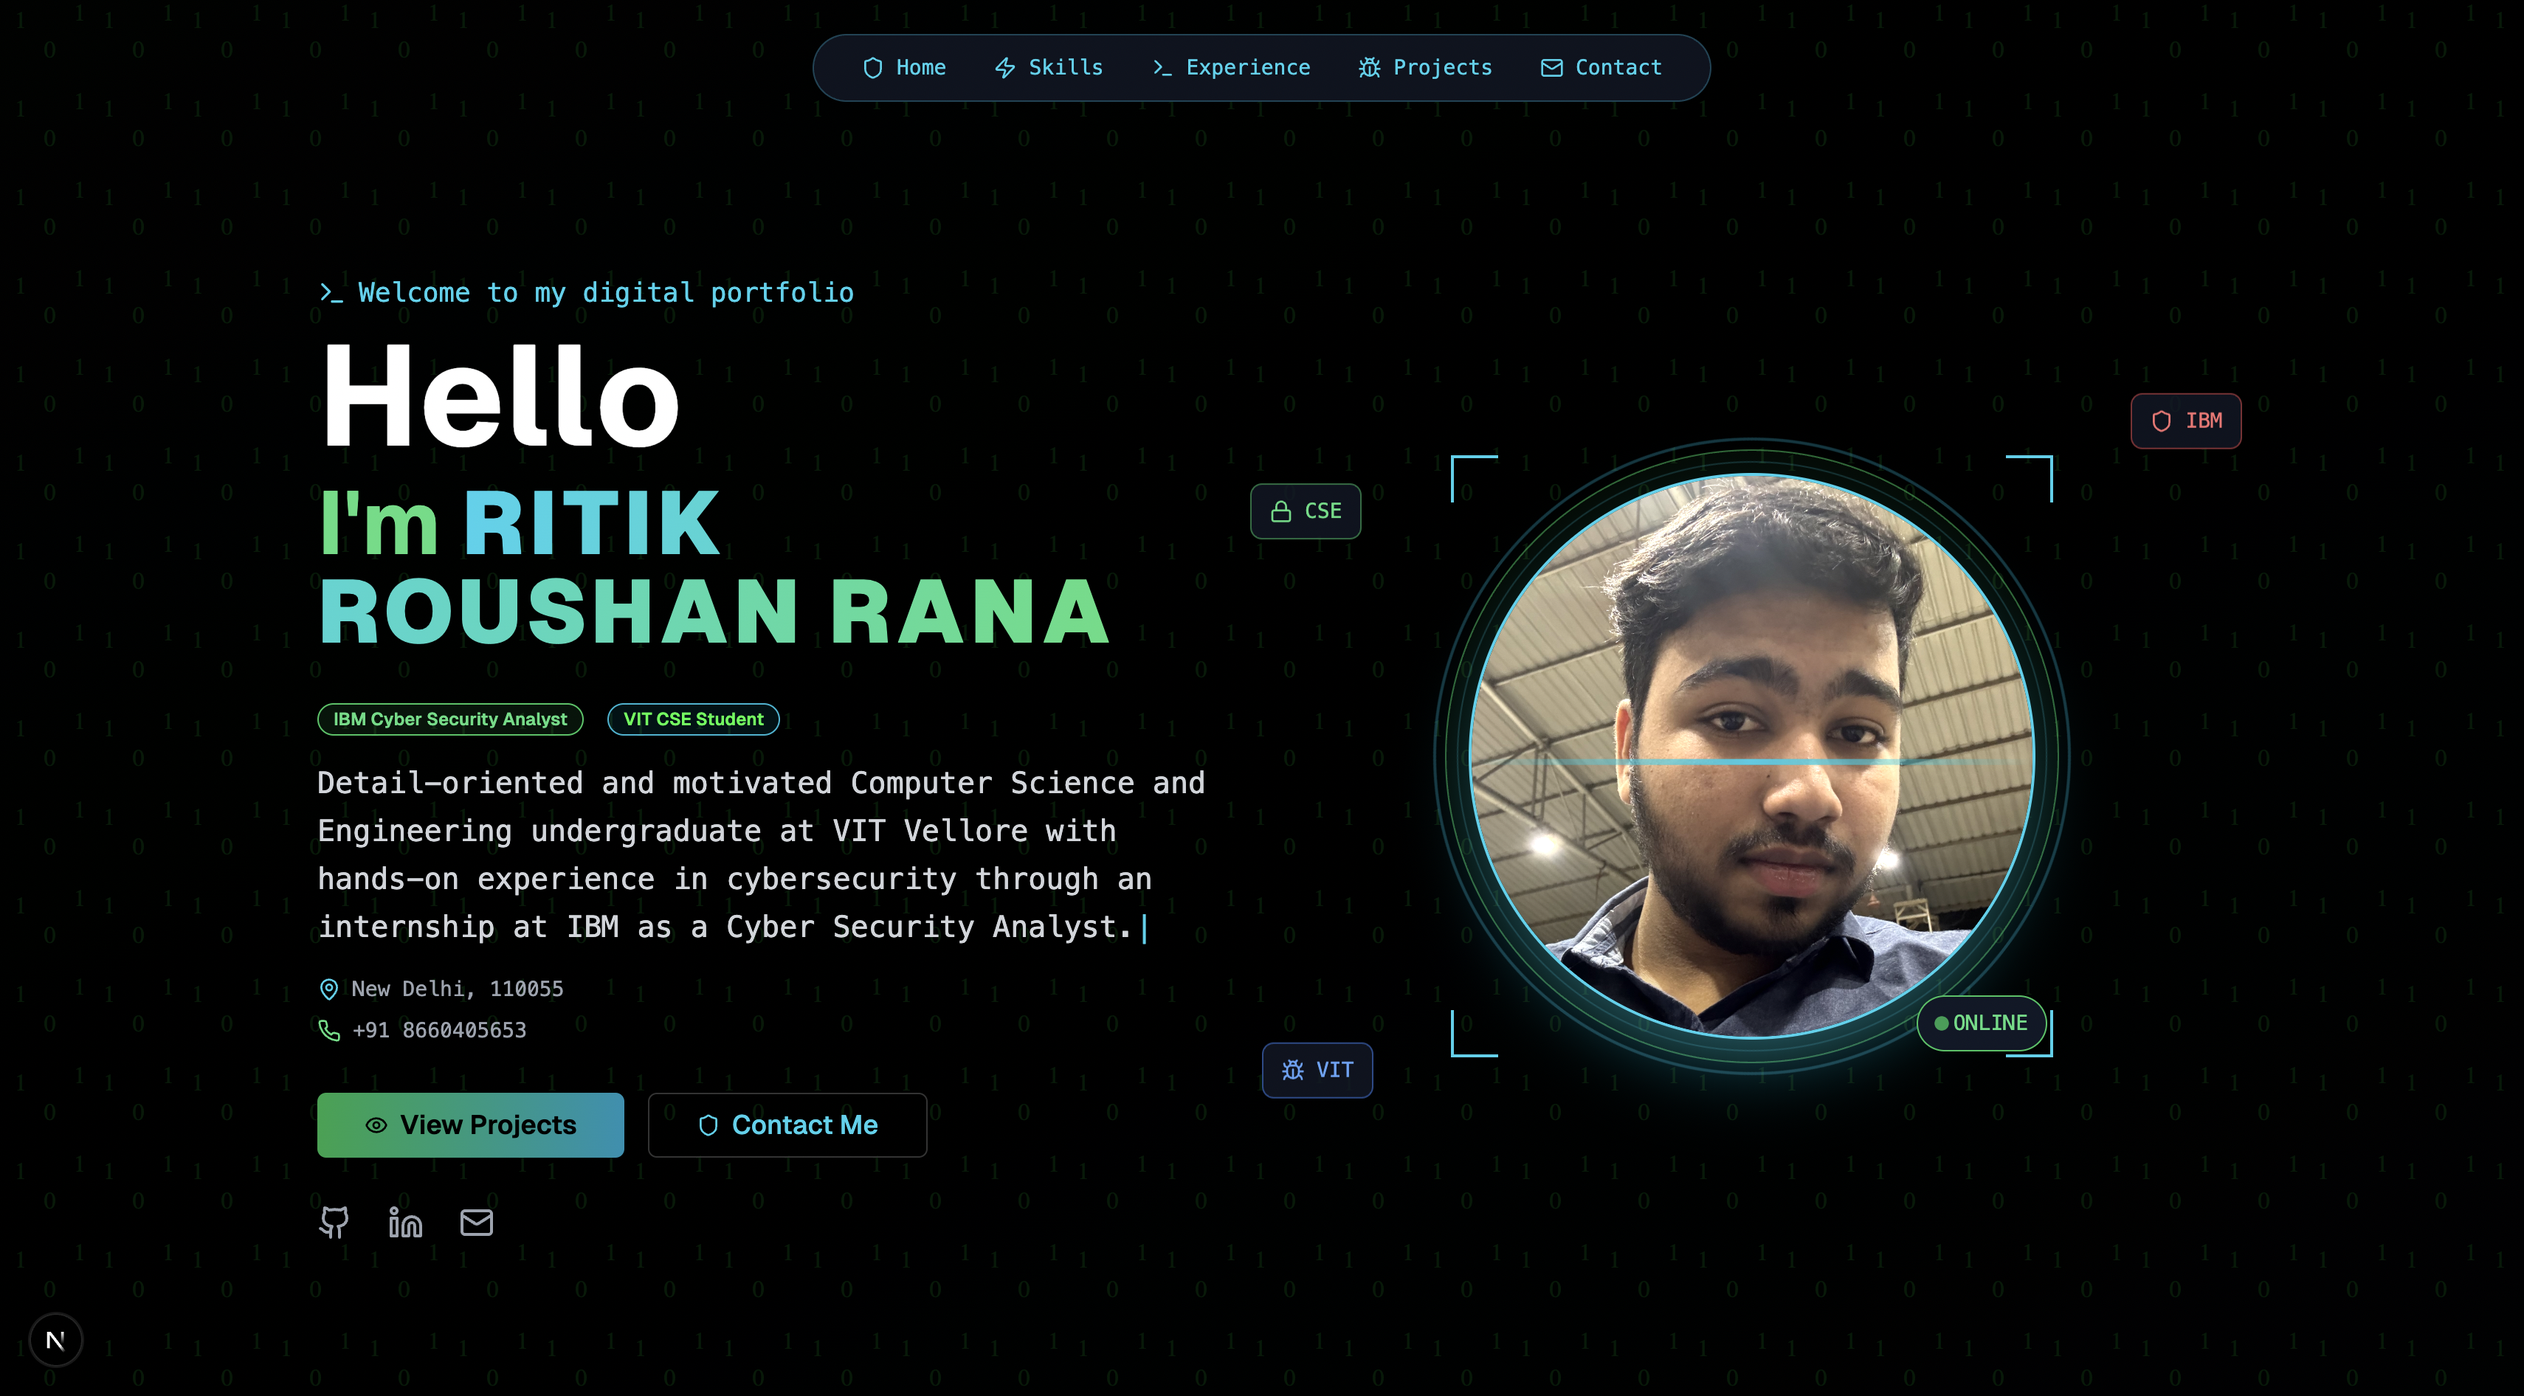
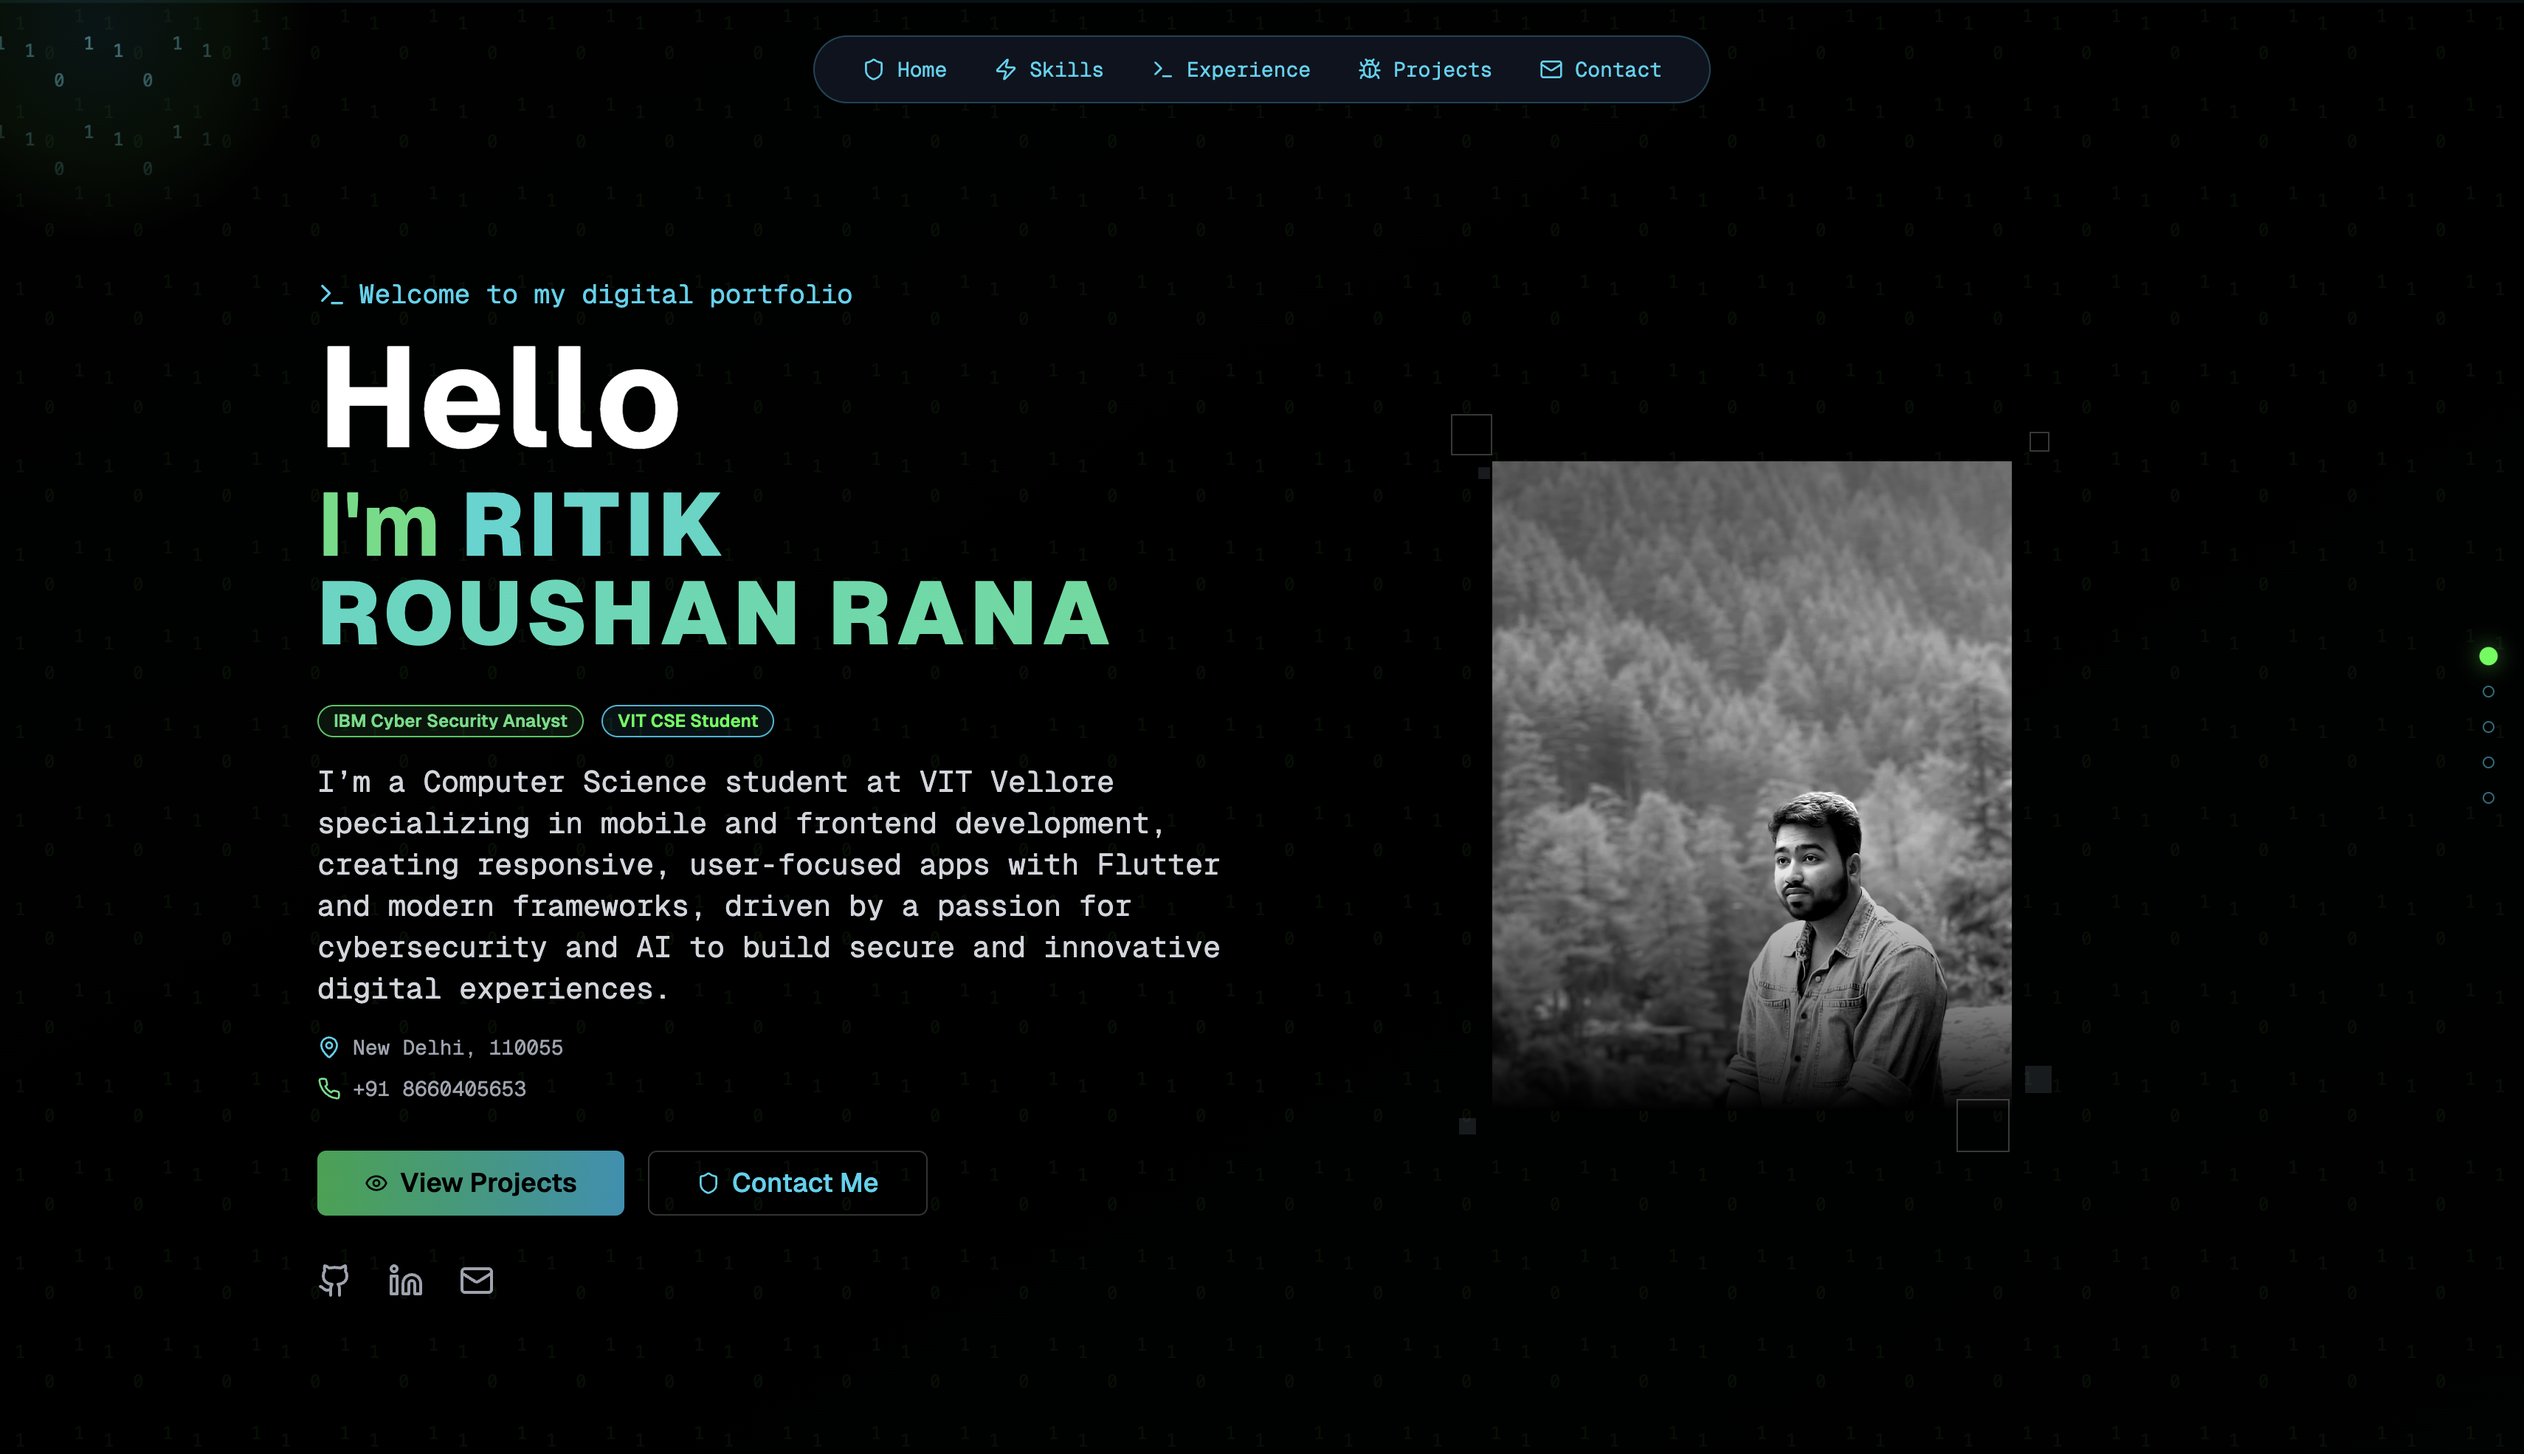
Update resume link and compress preview image

diff --git a/components/Portfolio.jsx b/components/Portfolio.jsx
@@ -610,7 +610,7 @@ export default function Portfolio() {
                 ritikrana8596@gmail.com
               </Button>
               <a
-                href="https://drive.google.com/file/d/1xvyeKg_B4nbMg7nfAKa4onIiVJSoMK6a/view?usp=drive_link"
+                href="https://drive.google.com/file/d/1vhBi2CfbaQDo-NzdqEiLRe8hky1TdnFA/view?usp=sharing"
                 target="_blank"
                 rel="noopener noreferrer"
                 className="inline-flex items-center justify-center px-4 py-2 border border-cyan-500 text-cyan-400 hover:bg-cyan-500/10 font-mono bg-transparent hover:scale-105 transition-transform text-sm rounded-lg"
